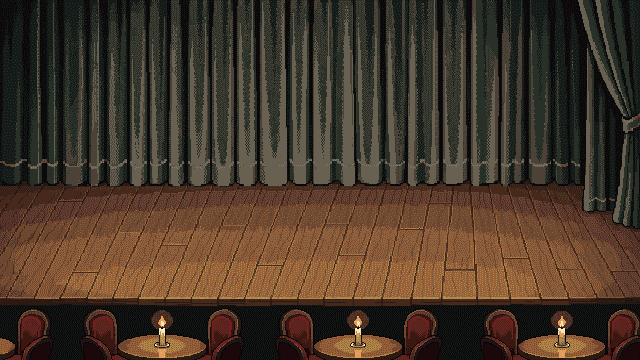
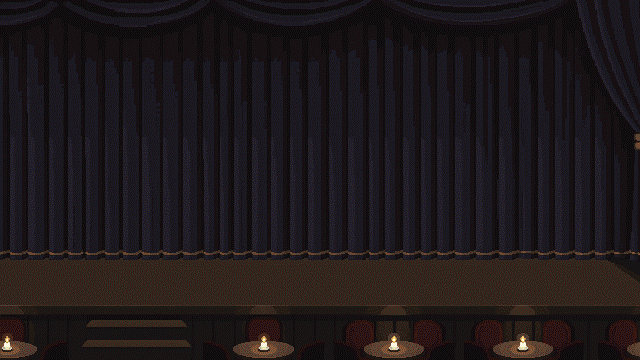
Repaint the Midnight Show: its drapes were a colour the palette has not got
Unprompted, but it was the only painting left in the game that the reducer
flags - `gamut 0.165  <-- LOOK AT IT`, against 0.005-0.066 for every other
venue - and the room Louis has twice called awful.

The cause was one choice: the drapes were MINT GREEN. The locked 48 is a
warm theatre palette with no mid-luminance teal in it at all, which is the
same trap the Backyard's teal dusk sky fell into, so the biggest surface in
the picture had nowhere to land and error diffusion sprayed the whole thing
with speckle. Its stage was also a pale honey oak - the brightest floor in
the game, in the one room whose entire purpose is being dark.

The repaint is the room the venue actually is: deep indigo drapes almost
black in their folds, dark umber boards, supper tables and their candles
cropped along the bottom edge. 0.165 -> 0.013, floor 0.048, spine 0.97,
0.0% green-dominant pixels.

Two rolls, and the second was about the floor band rather than the colour.
Roll 1 got the colour right and put its boards in a 22px strip, with `stand`
0.811 landing the feet at art y 292 - nothing to stand on. Naming the band
as a fraction of the frame fixed it, with the tables demoted to the last
narrow strip at the bottom edge.

AND A FINDING THAT OUTLASTS THE PICTURE: this venue's `veil` is inert.
full_dark_stage() lays a near-black rect over the FINISHED backdrop at alpha
0.72 and the Midnight Show is permanently inside it, so the room is darkened
[…]

diff --git a/CLAUDE.md b/CLAUDE.md
@@ -390,12 +390,24 @@ screen pixels tall and some three. Callers that place hands themselves must snap
   instead, because a chair squashed to 0.55 is a chair that is wrong.
 - **A VENUE'S `veil` BELONGS TO ITS PAINTING, SO A REPAINT HAS TO RE-MEASURE IT.** The Midnight
   Show's 0.10 looked like a design choice and was a fact about the old art: drapes and tables
-  over near-black, which the standard 0.42 erased. The repaint has a warm oak stage, and 0.10
-  left it at luminance 85 against the old set's 45 and the Circus's 64 - making the darkest
-  room in the game the brightest, which cancels the reason the room exists (a vanishing suit
-  and a phosphor vest have nothing to vanish into on lit boards, so the Glow Kit stops being
-  worth wearing). It is the one number in `venue_data` that is about the art rather than the
-  design. 0.40 puts it back at ~62.
+  over near-black, which the standard 0.42 erased. The 2026-08-15 repaint had a warm oak stage,
+  and 0.10 left it at luminance 85 against the old set's 45 and the Circus's 64 - making the
+  darkest room in the game the brightest, which cancels the reason the room exists (a vanishing
+  suit and a phosphor vest have nothing to vanish into on lit boards, so the Glow Kit stops
+  being worth wearing). It is the one number in `venue_data` that is about the art rather than
+  the design. 0.40 put it back at ~62.
+  **...EXCEPT AT THE MIDNIGHT SHOW, WHERE IT IS NOW INERT, AND THAT IS WORTH KNOWING BEFORE
+  SOMEONE TUNES IT (2026-08-20).** `full_dark_stage()` lays a near-black rect over the FINISHED
+  backdrop at alpha **0.72**, and the Midnight Show is permanently inside it - so that room is
+  darkened twice and the second pass dominates. Measured on the 2026-08-20 repaint, sweeping
+  the veil across 0.40 / 0.30 / 0.20 / 0.12 moved the room behind the performer by **0.5 of a
+  level out of 255** (6.4 to 6.9). The veil is not what makes this house dark and cannot be
+  what fixes it.
+  **AND THE 0.72 HAS TO STAY, because the prop levels now depend on it.** With
+  `DARK_DIM_AIR` at 0.09 a flying ball reads about 15, so the room has to sit near 6 for it to
+  separate at all. Raising the house to where its own drapes and gold hem are comfortably
+  visible (12-16) would erase the props instead - the two numbers are one setting seen from
+  two ends, and the room being near-black is what buys the prop its 2.5x.
 - **A BACKDROP MAY HAVE A CENTRE PROBLEM `spine_busyness` CANNOT SEE.** It measures how much
   more TEXTURED the spine band is than the rest, and read 1.15 - inside the normal range - for
   a Midnight Show whose middle held a supper table and two seated diners the performer stood

diff --git a/docs/pixellab_prompts.md b/docs/pixellab_prompts.md
@@ -187,3 +187,33 @@ whose warm mid-tones are all muted. And do not over-steer either - a Championshi
 measures. The shipped Championship is the FIRST roll, at 0.087: its residual is dispersed
 across floorboard grain rather than pooled in one wash, which is the case the advisory's own
 note says diffuses fine, and at 1x under the veil it reads as a lightly grained wooden floor.
+
+
+## The Midnight Show backdrop, repainted (`bg/the_midnight_show`)
+
+`create_image_pixen`, 640x360, 2 generations. 2026-08-20, unprompted: it was the only painting
+in the game the reducer still flagged (`gamut 0.165  <-- LOOK AT IT`), and the reason was one
+choice - **its drapes were mint green.** The locked 48 is a warm theatre palette with no
+mid-luminance teal at all, which is the same trap the Backyard's teal dusk sky fell into, so the
+biggest surface in the picture had nowhere to land and error diffusion sprayed the whole thing.
+Its stage was also a pale honey oak, i.e. the brightest floor in the game in the one room whose
+entire purpose is being dark.
+
+The repaint asks for the room the venue actually is: deep indigo drapes almost black in their
+folds, dark umber boards, and the supper tables with their candles cropped along the bottom
+edge. **0.165 -> 0.013, floor 0.048, and 0.0% green.**
+
+TWO ROLLS, and the second was about the FLOOR BAND rather than the colour. Roll 1 got the colour
+right first time and put its boards in a 22px strip - `stand` 0.811 lands the feet at art y 292,
+so there was nothing to stand on. Naming the band as a fraction of the frame is what fixed it:
+"the whole LOWER HALF, from half way down the picture to near the bottom edge, is a wide deep
+band of dark stage boards", with the tables demoted to "the last narrow strip along the very
+bottom edge, cropped by the frame". Roll 1 also drew a tied-back curtain leg just left of centre
+and two soft round glows on the drape; naming those in the negatives ("no gathered curtain, no
+tie-back ... no round glow or wash of light on the curtain") cleared both.
+
+**DO NOT JUDGE THIS ONE BY THE PLAYED SCREEN.** `full_dark_stage()` puts a near-black wash at
+alpha 0.72 over the finished backdrop, so most of this painting is invisible in play and the
+improvement is almost entirely in the source. That is still worth having - the flagged dither is
+gone, the palette fit is honest, and the picture underneath is correct if the wash is ever
+tuned - but expect the capture to look much like the old one.
